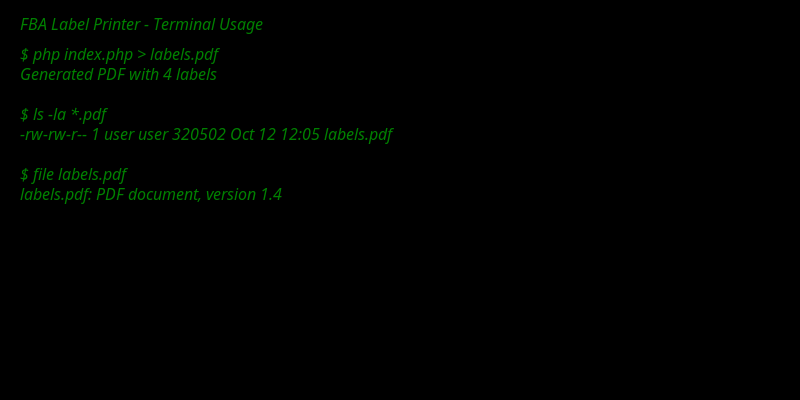
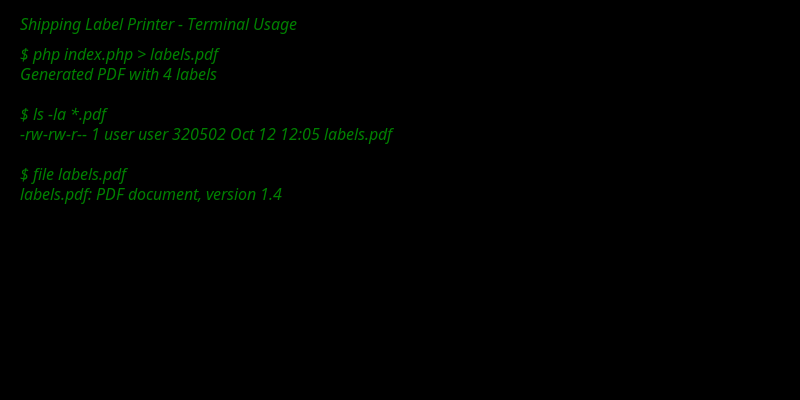
Correct project name from FBA to Shipping Label Printer
- Updated README title and description
- Regenerated terminal screenshot with correct project name
- Removed FBA-specific references

Changed region(s): [[0.0312, 0.03, 0.375, 0.09]]

diff --git a/README.md b/README.md
@@ -1,6 +1,6 @@
-# FBA Label Printer
+# Shipping Label Printer
 
-A PHP-based label printing system for FBA (Fulfillment by Amazon) shipping labels. This tool generates PDF labels with automatic image processing and positioning for 2x2 label layouts on letter-size paper.
+A PHP-based label printing system for shipping labels. This tool generates PDF labels with automatic image processing and positioning for 2x2 label layouts on letter-size paper.
 
 ## Screenshots
 
